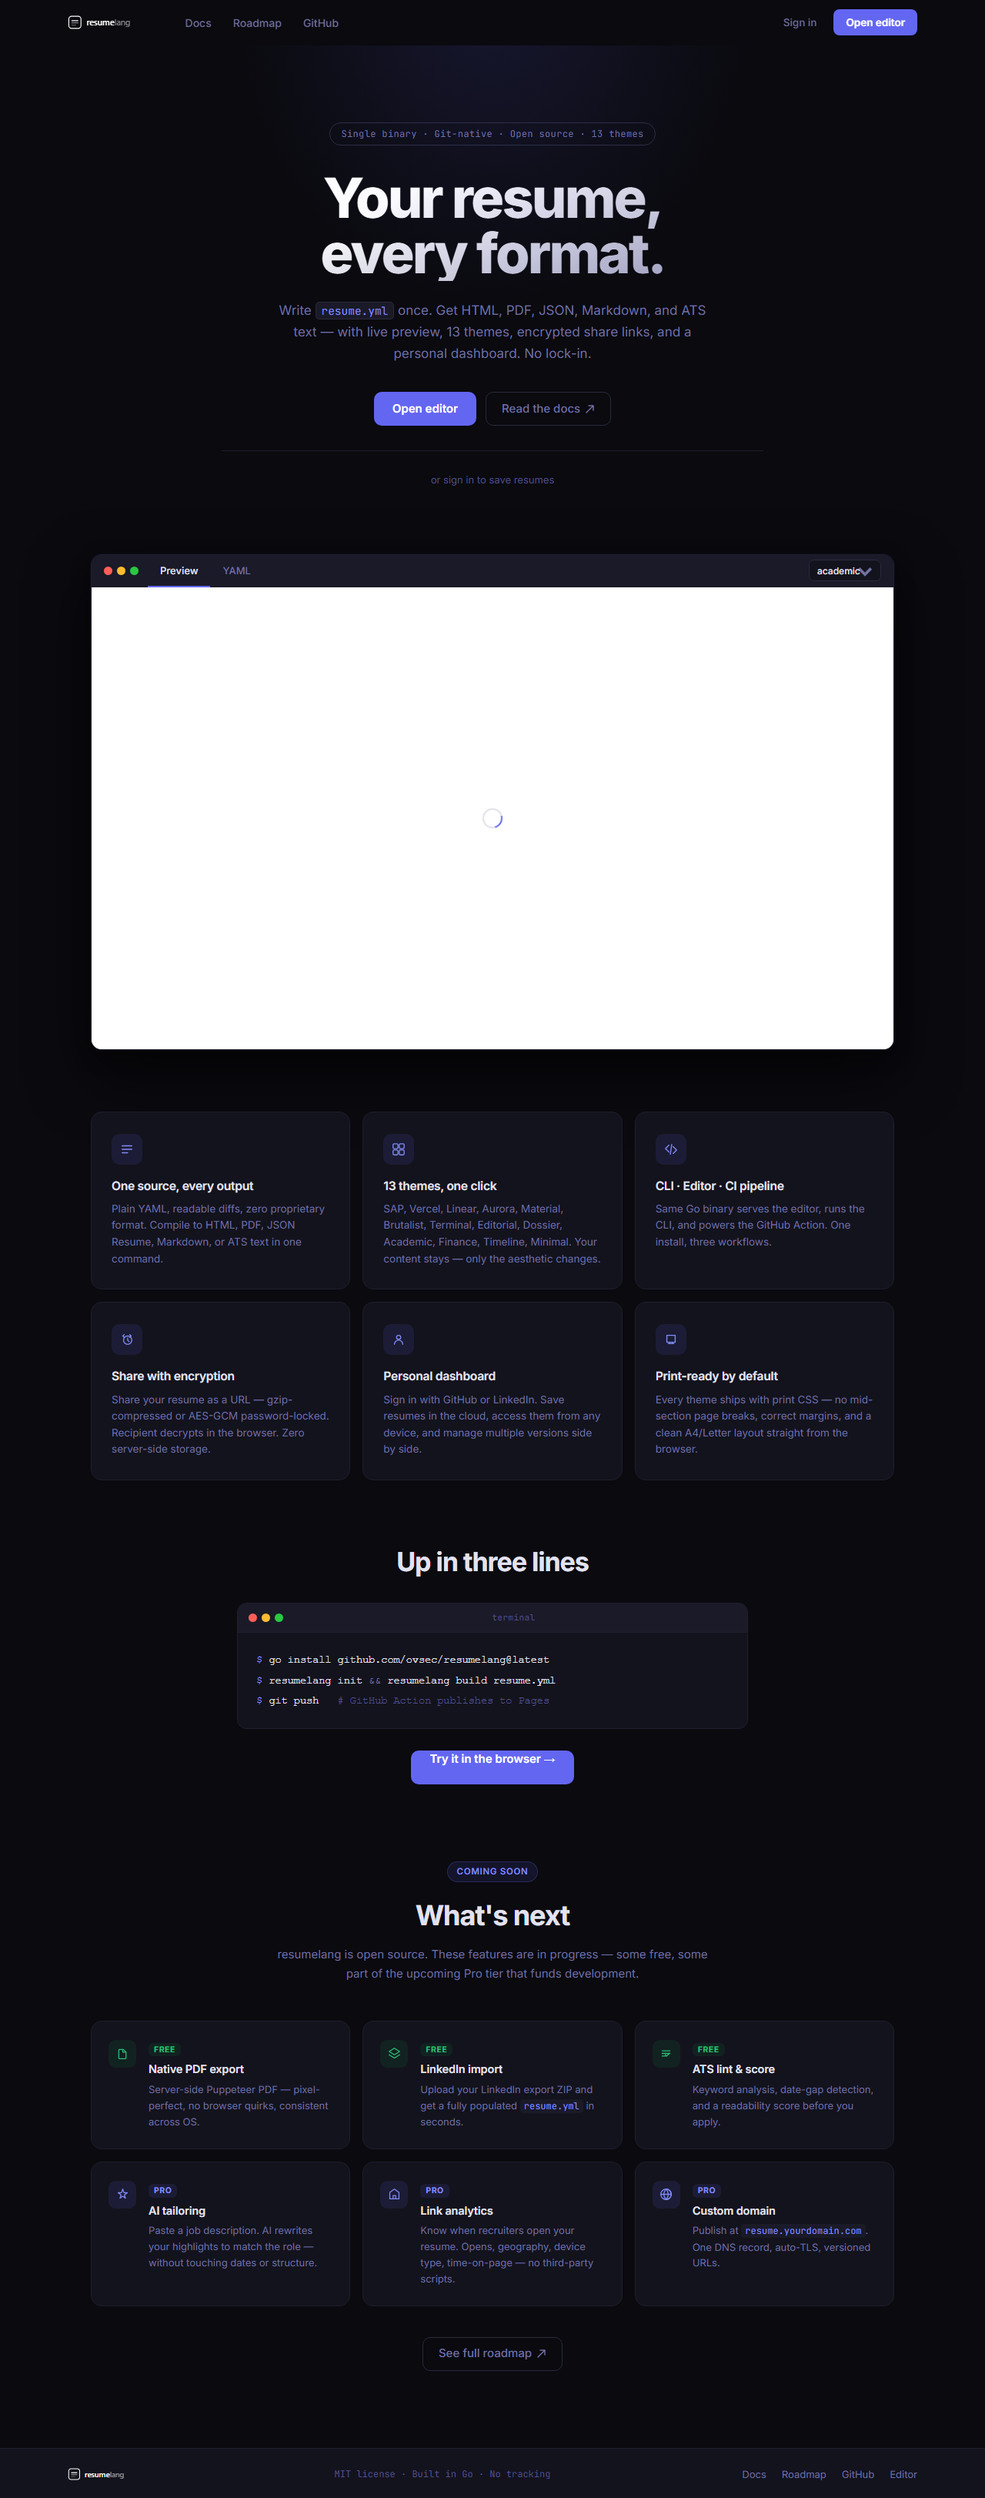
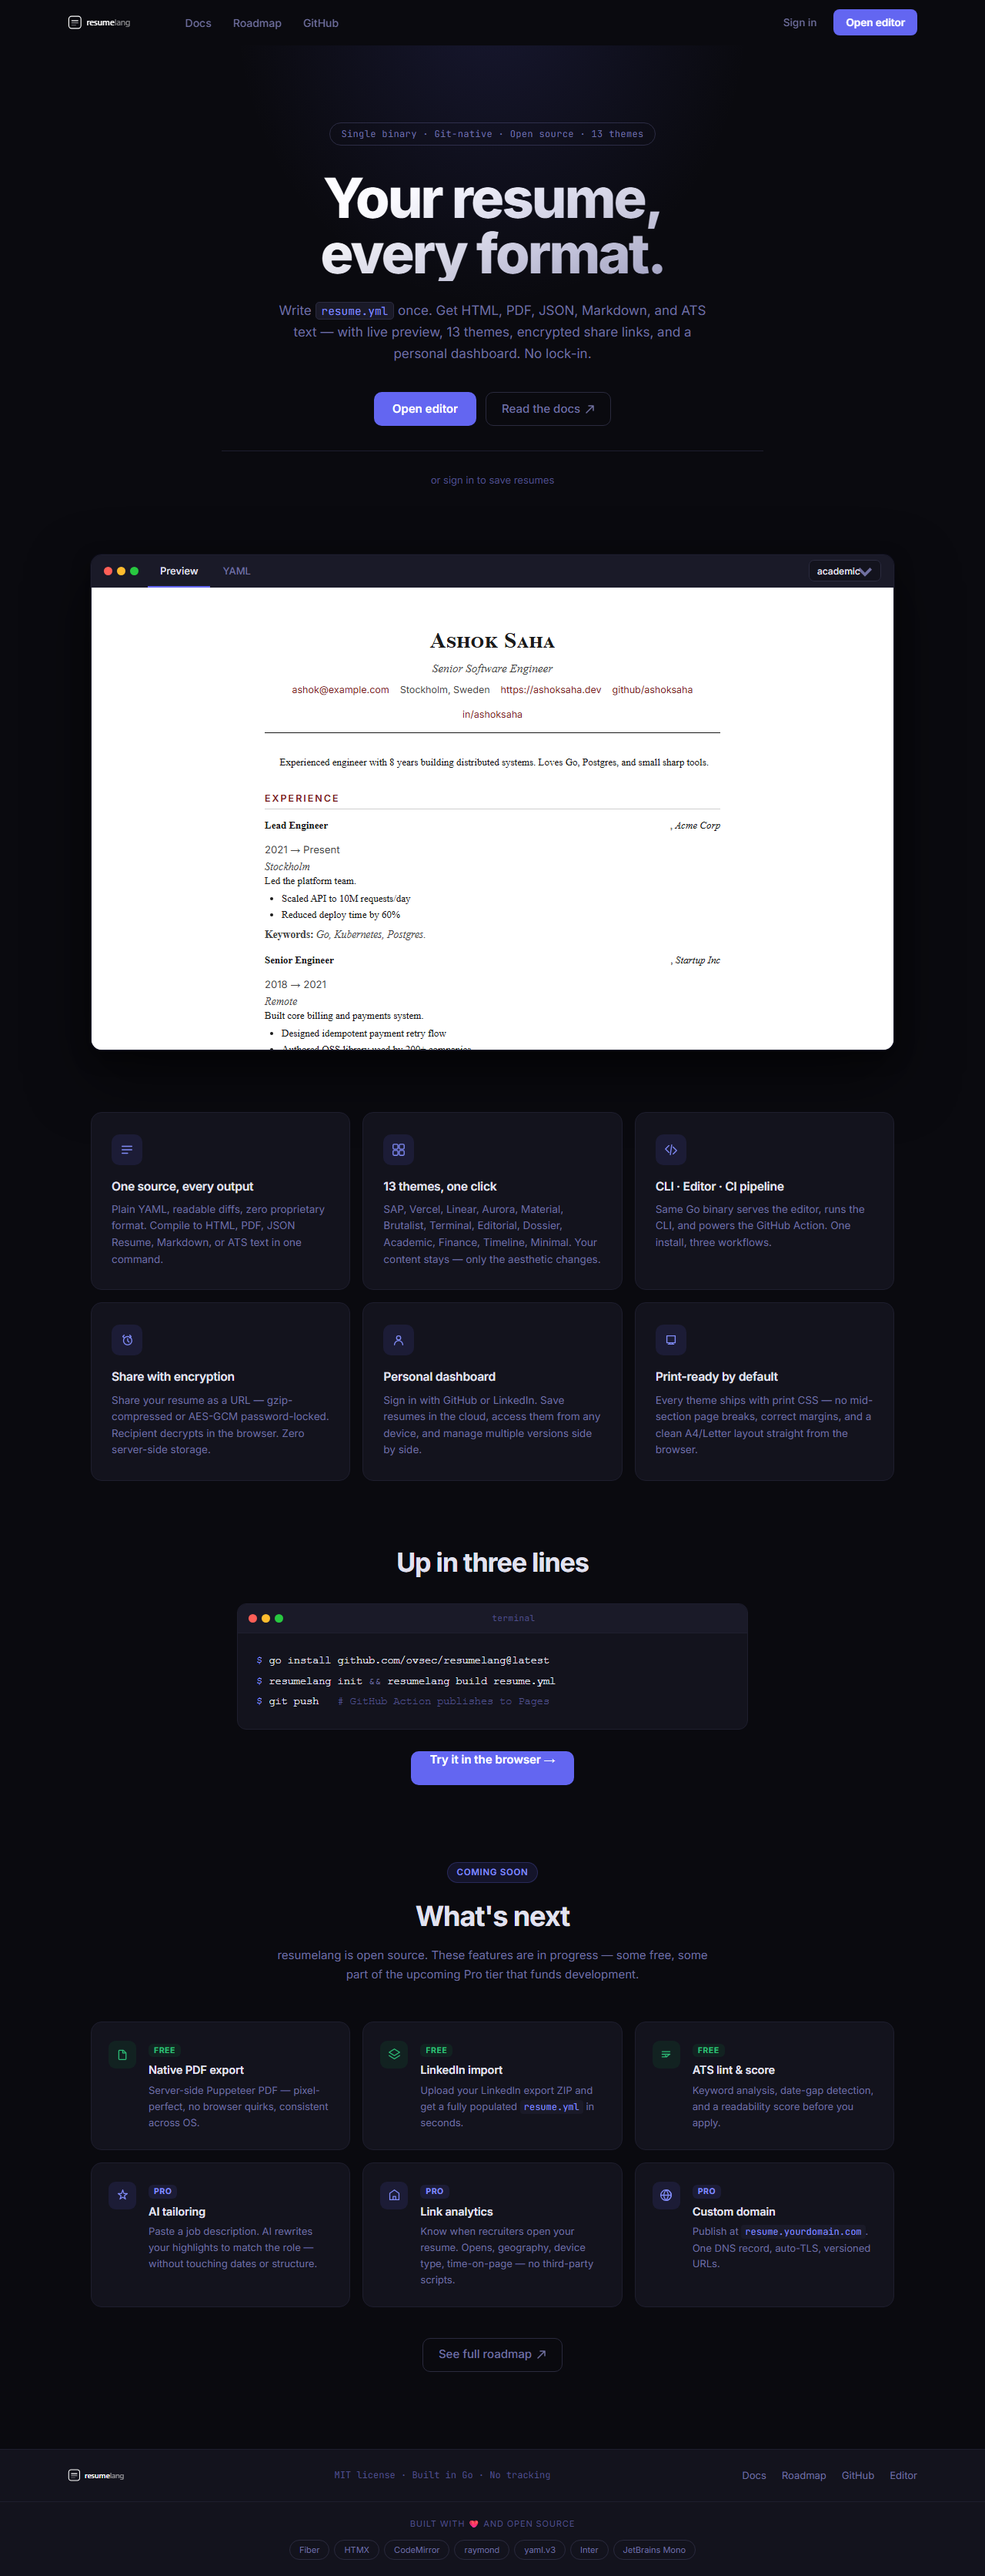
Update

diff --git a/web/landing.css b/web/landing.css
@@ -219,7 +219,7 @@ body {
   box-shadow: 0 4px 24px rgba(99, 102, 241, 0.35);
 }
 .cta-primary:active { transform: scale(0.975); }
-.cta-center { display: block; width: fit-content; margin: 28px auto 0; }
+.cta-center { display: flex; justify-content: center; width: fit-content; margin: 28px auto 0; }
 
 .cta-secondary {
   display: inline-flex;
